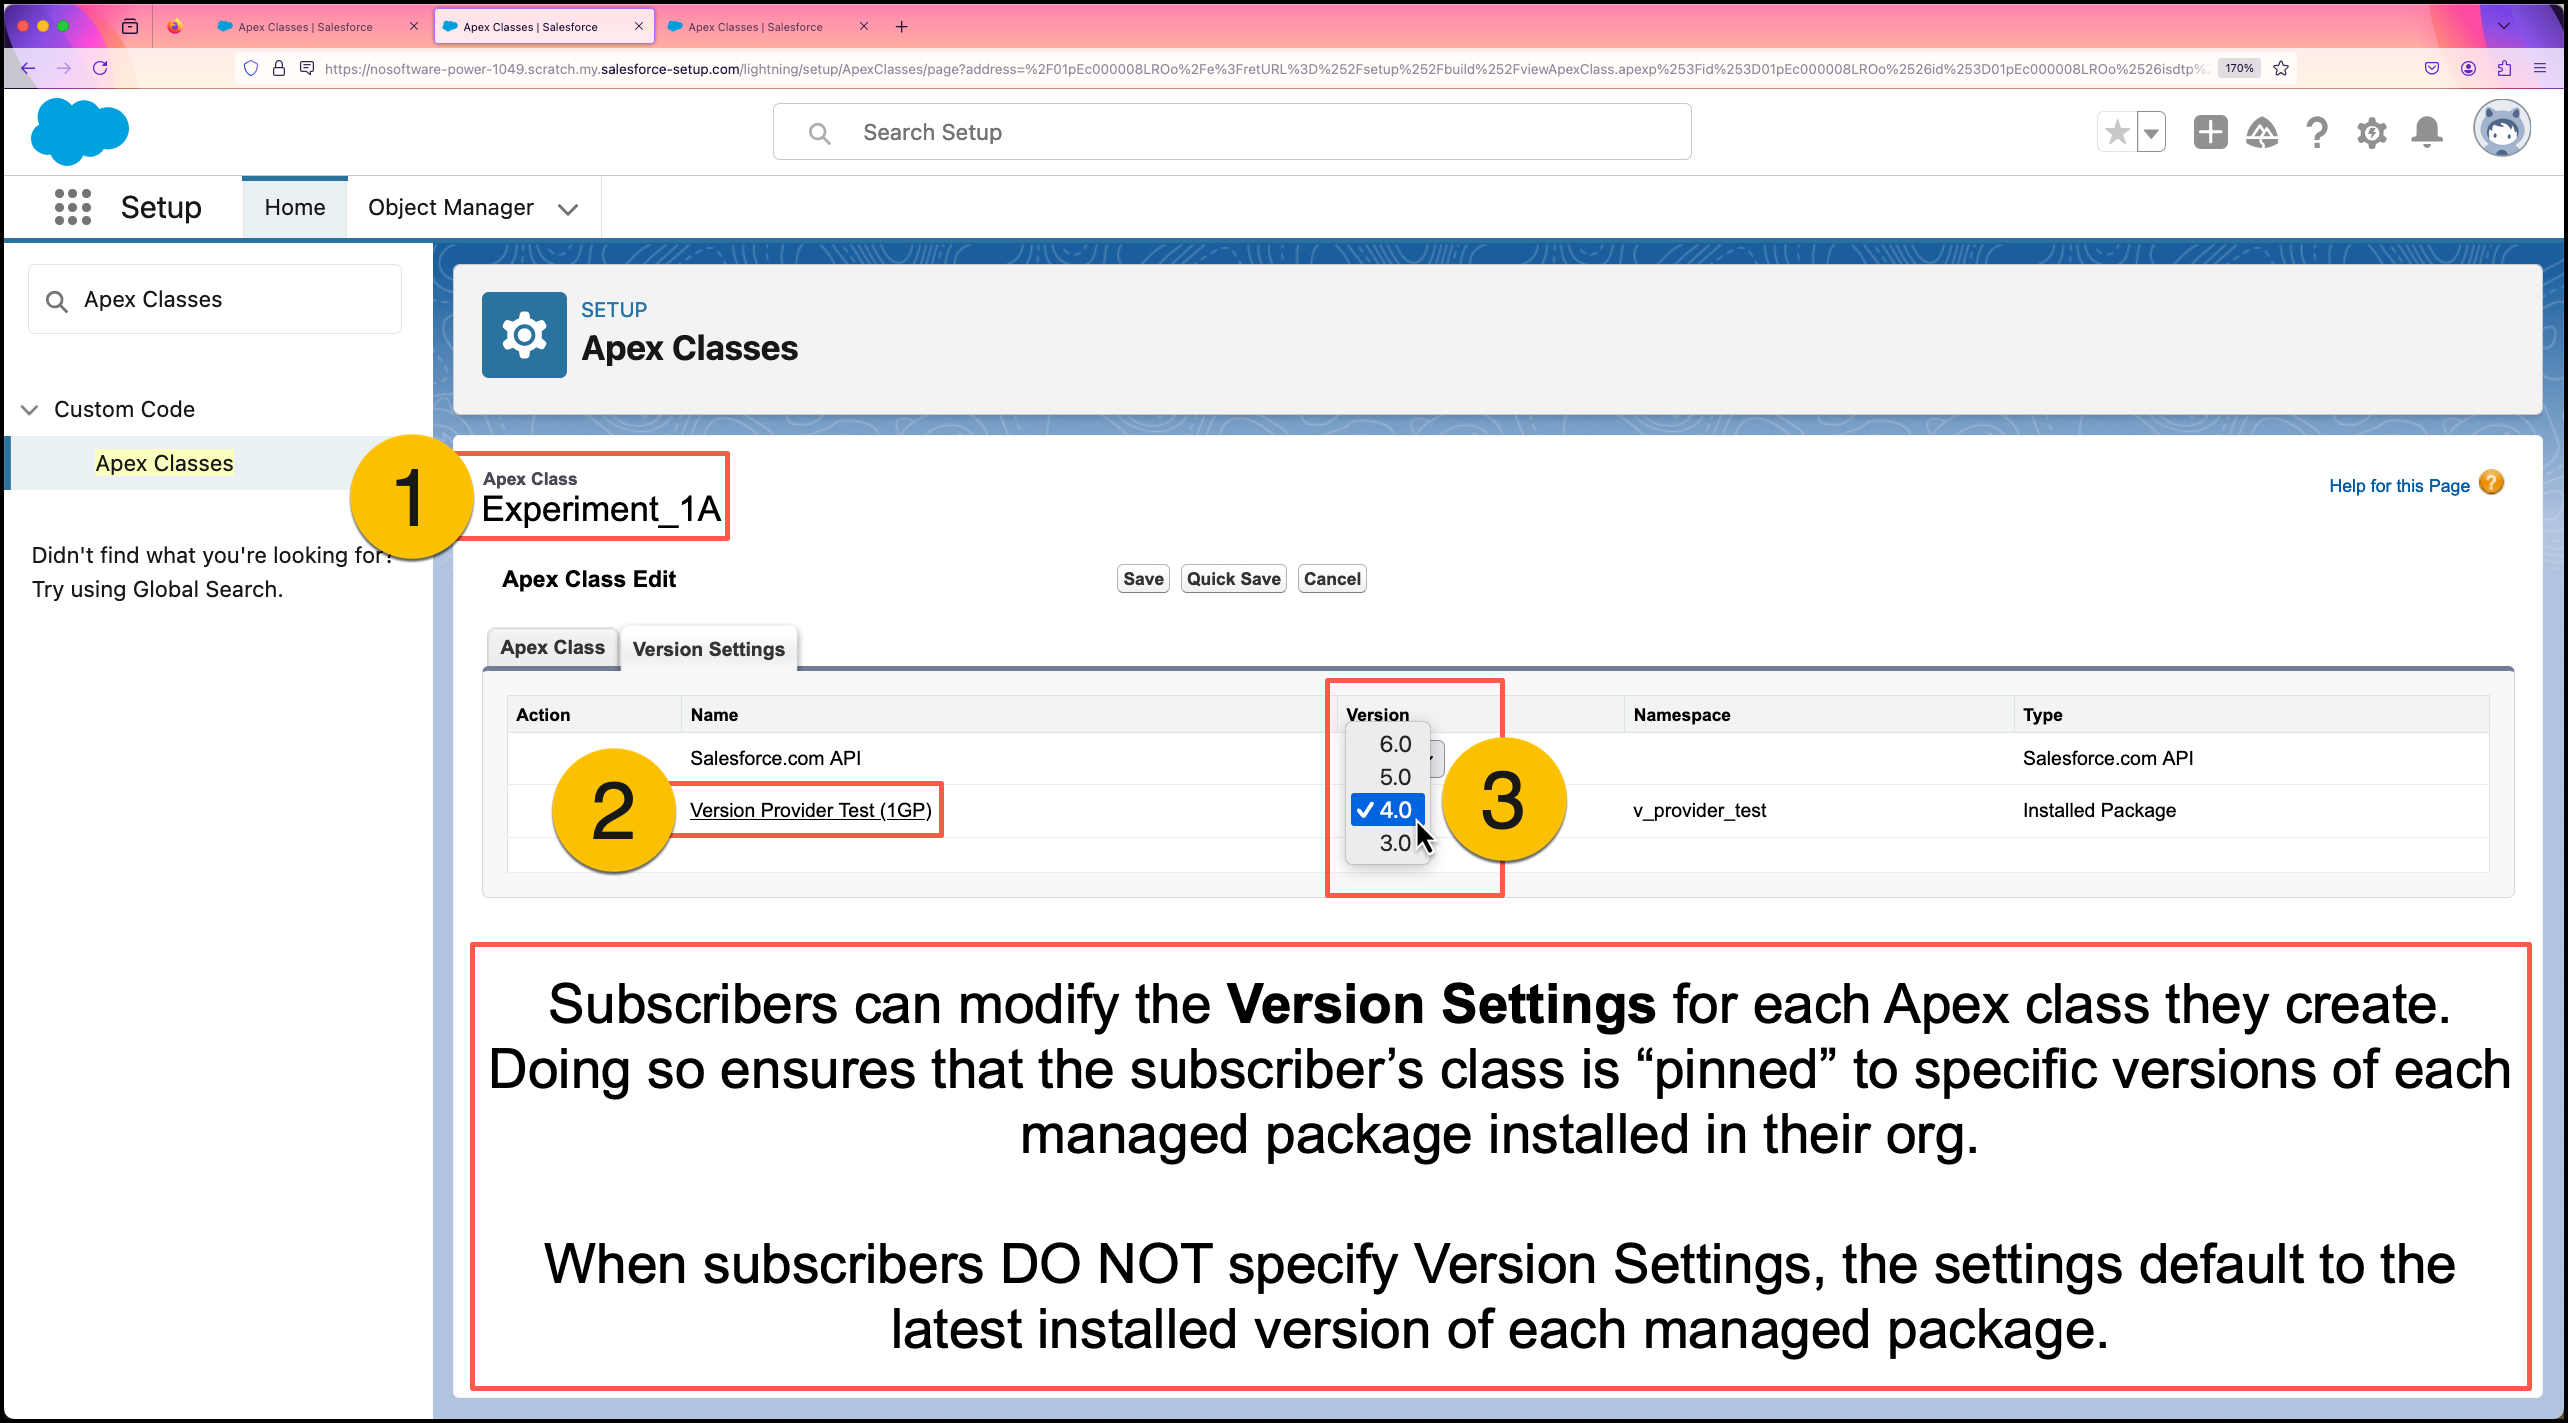
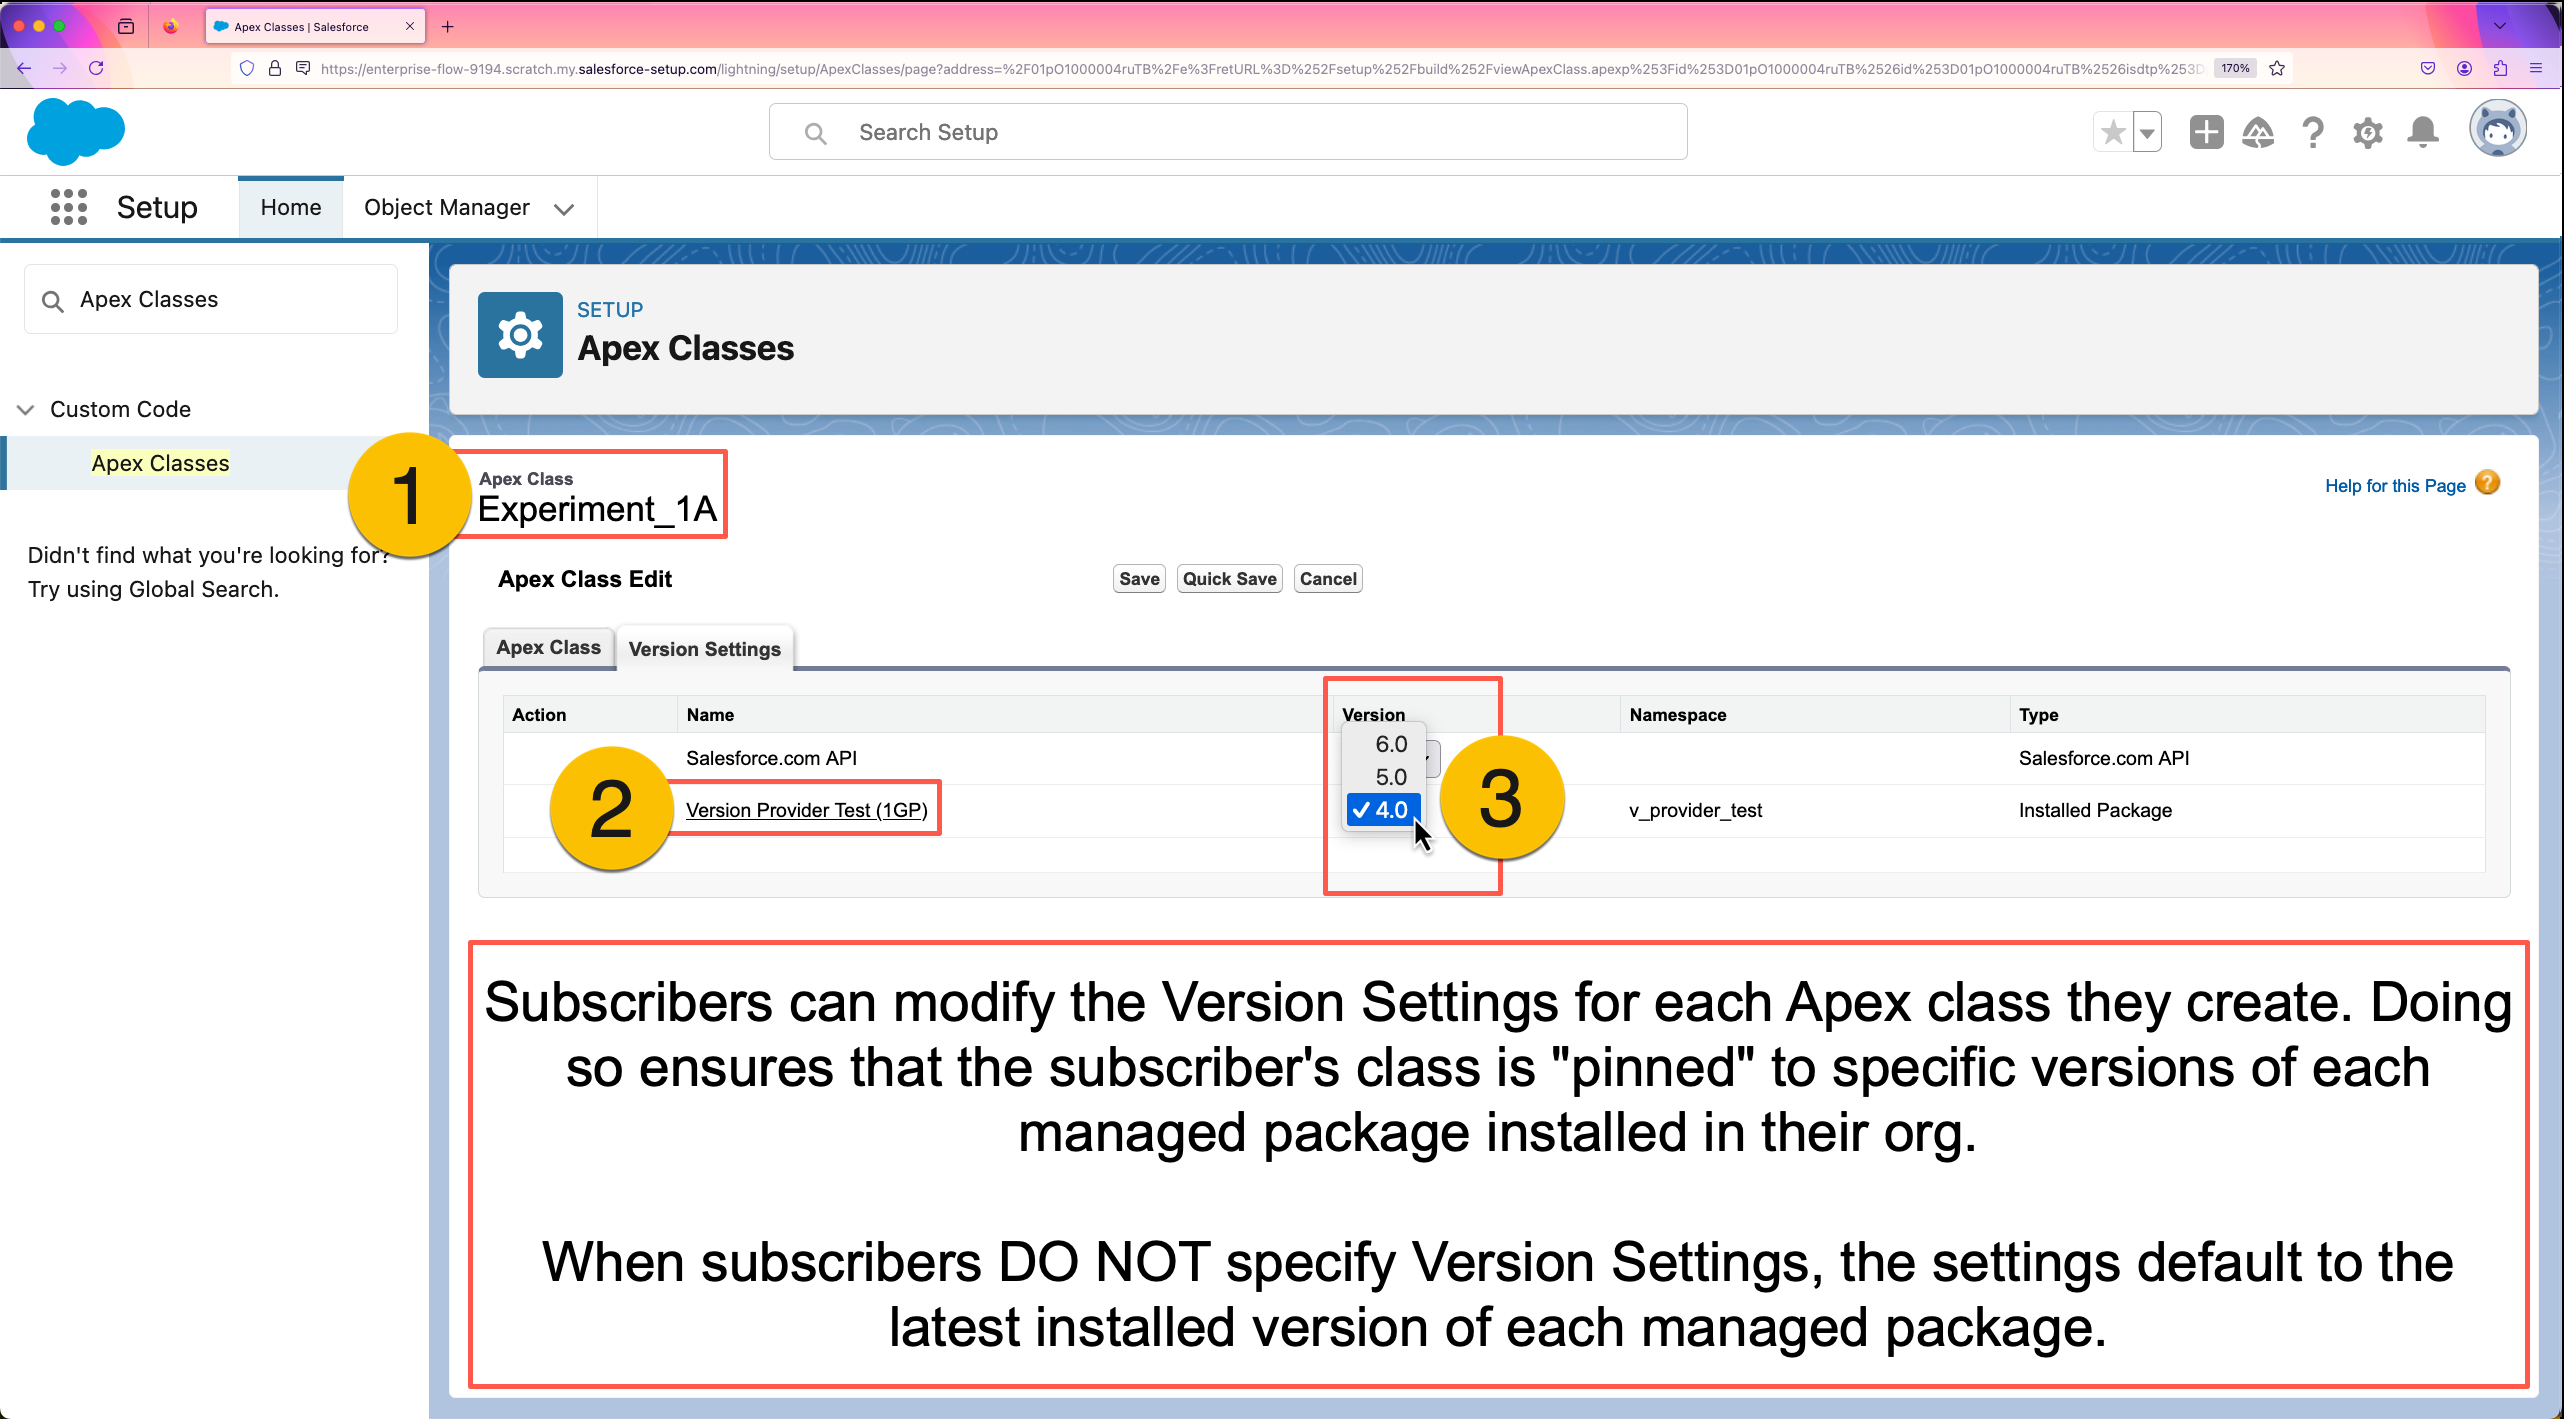
Continue working on EXPERIMENT_1

diff --git a/EXPERIMENT_1.md b/EXPERIMENT_1.md
@@ -58,28 +58,45 @@ sf apex run --file scripts/apex/Experiment_1.apex | grep USER_DEBUG
 ```
 sf project deploy start -m "ApexClass:Experiment_1*" --ignore-conflicts
 ```
+![Experiment_1* Class Compile Errors](images/Subscriber_Apex_Compile_Error_1GP_CLI.png)
+
 ---
 
-#### 5A. View the Class Summary for `v_provider_test__GlobalConcreteTwo` in Setup.
+#### 6A. View the Class Summary for `v_provider_test__GlobalConcreteTwo` in Setup.
 Open the `v_provider_test__GlobalConcreteTwo` class in Setup and note the following.
 1. The class `v_provider_test__GlobalConcreteTwo` was installed as part of the `Version Provider Test (1GP)` package.
-2. Selecting the **All Versions** filter shows ALL of the methods in this class, including `methodAltTwo(Integer, String)` which was `@Deprecated` in `ver 5.0 (2GP)`.
-3. The **"Available in Versions"** section is missing completely.
+2. Selecting the **All Versions** filter shows ALL of the methods in this class and opens the **Available in Versions** panel.
+3. Observe that the **Available in Versions** panel shows that `methodAltTwo(Integer, String)` is currently `@Deprecated`.
+   * The UI shows that this method is only available in versions `3.0` through `4.0`.
 
 ![GlobalConcreteTwo Class Summary (1GP)](images/Packaged_Apex_Class_Detail_1GP.png)
 
 ---
 
+#### 6B. Edit the Version Settings for `Experiment_1A` in Setup.
+Return to the list of all **Apex Classes** in Setup.
+1. Open the `Experiment_1A` class, click the **Edit** button, then open the **Version Settings** tab.
+2. Note the row for the `Version Provider Test (1GP)` managed package that's installed in the org.
+3. Note the `Experiment_1A` class can be "Pinned" to any package version between the first one installed (`4.0`) and the last one installed (`6.0`).
+   * In the org, each subscriber class was automatically pinned to the version it was installed in.
+   * Our local source files didn't have **Version Settings** information. That's why the last deployment attempt failed.
+   * In a subsequent step, you'll retrieve the Apex classes from the org and your local source will become deployable again.
 
-#### 5B. View the Class Summary for `Experiment_2A` in Setup.
-```
-sf project deploy start -m "ApexClass:Experiment_1*" --ignore-conflicts
-```
+![Subscriber Apex Version Settings (1GP)](images/Subscriber_Apex_Version_Settings_1GP.png)
+
 ---
 
+#### 6C. Attempt to "Pin" `Experiment_1A` to version `6.0` in Setup.
+While still in Edit mode with `Experiment_1A`, attempt the following.
+1. Change the Version for `Version Provider Test (1GP)` to `6.0`, then click the **Quick Save** button.
+2. Observe the Compile Error, indicating dependence on a global method that's no longer visible.
+   * Click **Cancel** to exit once you've completed your observations.
 
+![Experiment_1A Class Compile Errors](images/Subscriber_Apex_Compile_Error_1GP.png)
 
-#### 6. Retrieve `Experiment_1*` classes from the org. Use the **Source Control** panel to inspect changes to the `.cls-meta.xml` for each subscriber class.
+---
+
+#### 7. Retrieve `Experiment_1*` classes from the org. Use the **Source Control** panel to inspect changes to the `.cls-meta.xml` for each subscriber class.
 ```
 sf project retrieve start -m "ApexClass:Experiment_1*" --ignore-conflicts
 ```
